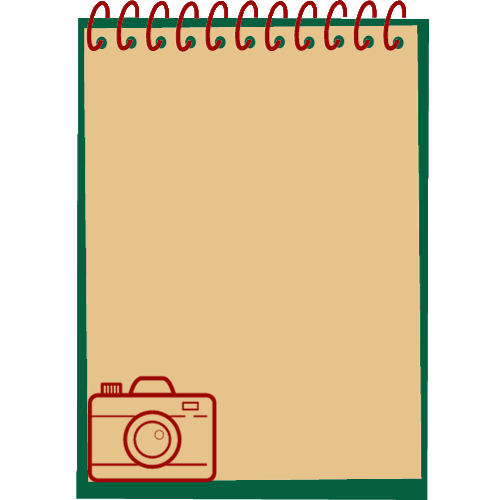
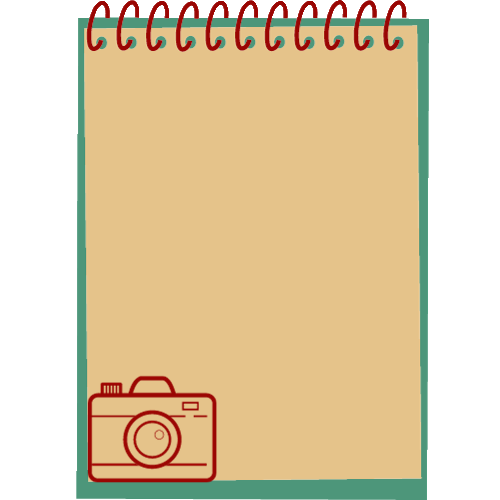
layout + homepage done

Changed region(s): [[0.15, 0.03, 0.87, 1.0]]

diff --git a/E-CookBook/wwwroot/css/cookBookStyle.css b/E-CookBook/wwwroot/css/cookBookStyle.css
@@ -1,23 +1,43 @@
 .badge-background-color {
-    background-color:blueviolet;
+    background-color: #4D967A;
 }
-.full-width-image {
-    width: 100vw;
+
+.home-images {
+    max-width: 100%;
     height: auto;
-    position: relative;
-    left: 50%;
-    right: 50%;
-    margin-left: -50vw;
-    margin-right: -50vw;
+    display: block;
 }
-.text-overlay {
+
+.home-images-container {
+    position: relative;
+    display: inline-block;
+}
+
+.home-images-text-base {
     position: absolute;
-    top: 0;
-    right: 0; 
-    color: #05603F;
-    padding: 10px;
+    left: 50%;
+    transform: translate(-50%, -50%);
+    color: #482F1D;
+    font-size: 2vw;
+    background-color: #4D967A;
+    text-decoration: none;
+    padding: 5px;
+    border-radius: 5px;
 }
-.image-container {
-    position: relative;
-    width: 100%;
+
+.home-images-text-create {
+    top: 50%;
+}
+
+.home-images-find-text {  
+    top: 34%;   
+}
+
+.home-images-text-base:hover {
+    color: #990603;
+}
+
+.footer-style {
+    min-height: 100px;
+    background-color: #4D967A;
 }

diff --git a/E-CookBook/wwwroot/css/site.css b/E-CookBook/wwwroot/css/site.css
@@ -10,10 +10,12 @@ html {
 
 html {
     position: relative;
-    min-height: 100%;
+    height: 100%;
 }
 
 body {
+    height: 100%;
+    padding-top: 120px;
     margin-bottom: 60px;
     font-family: Cooper;
     color: #482F1D;
